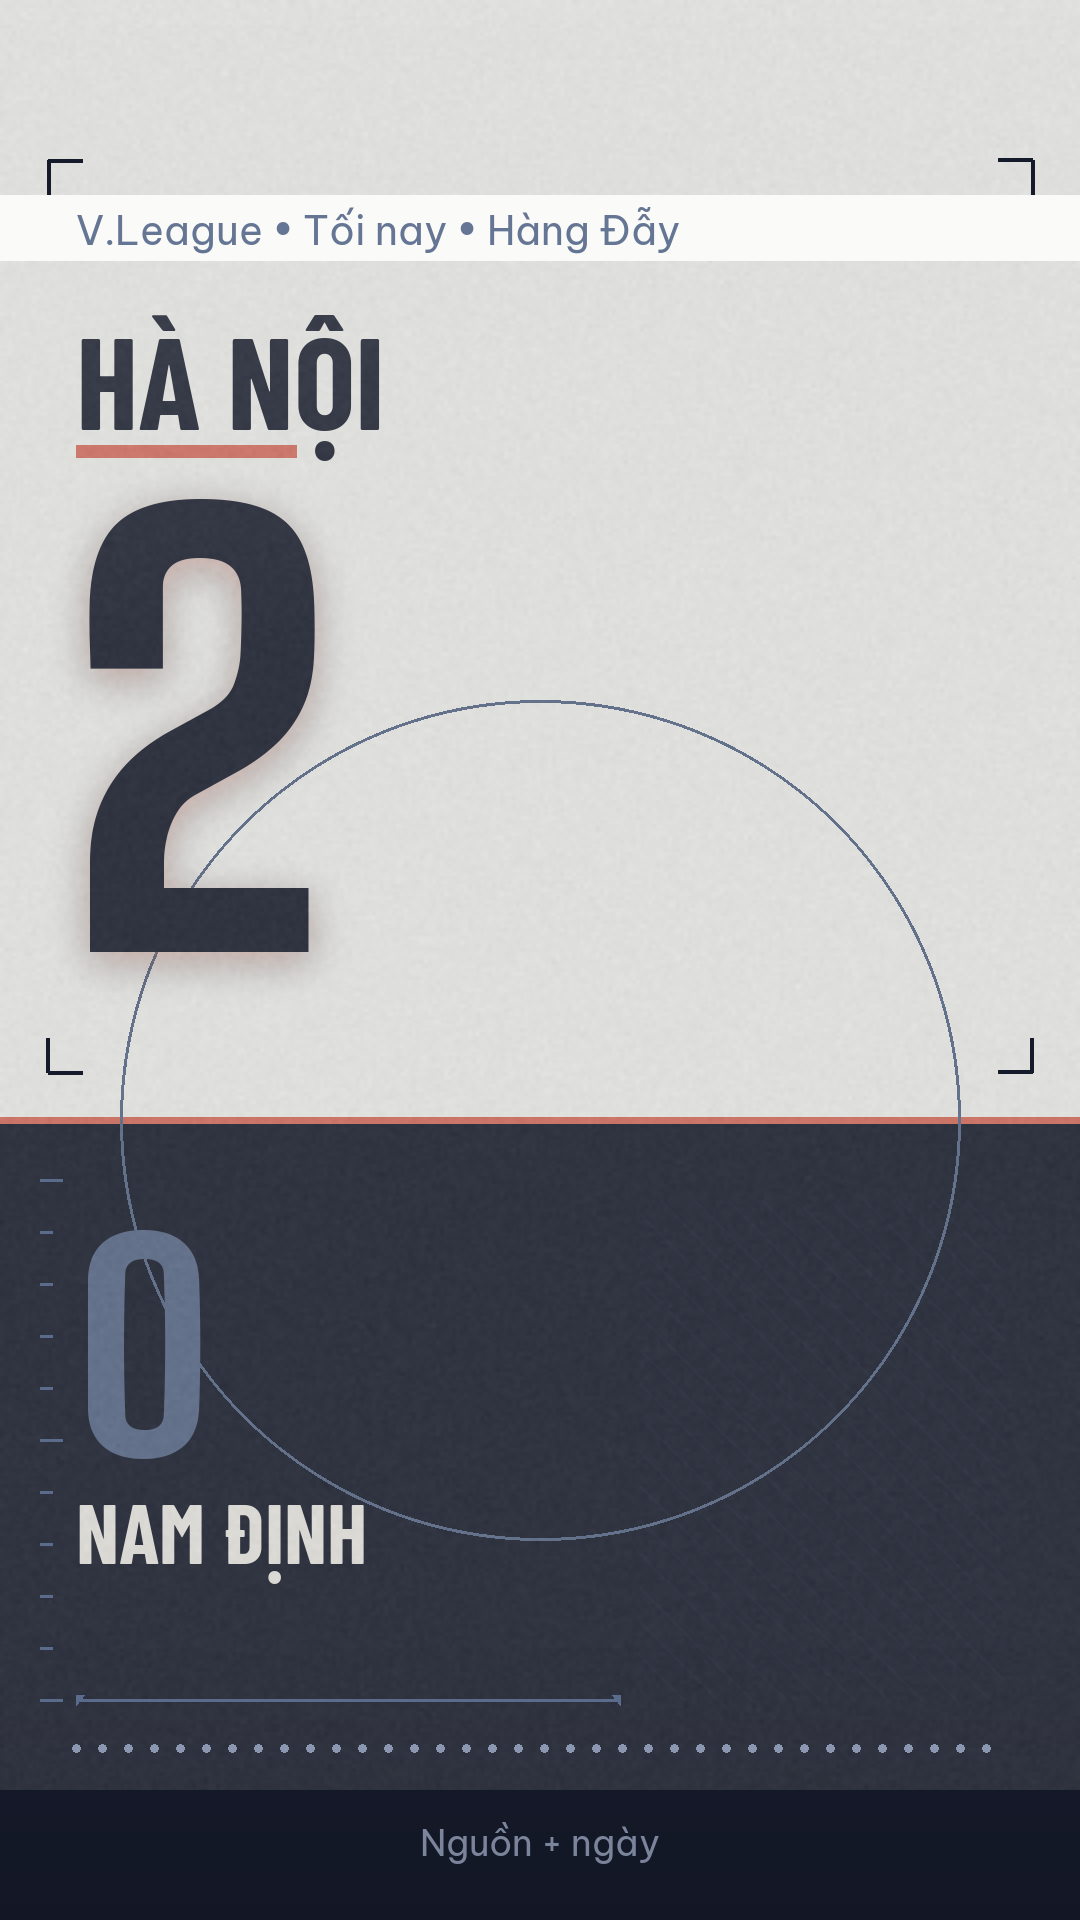
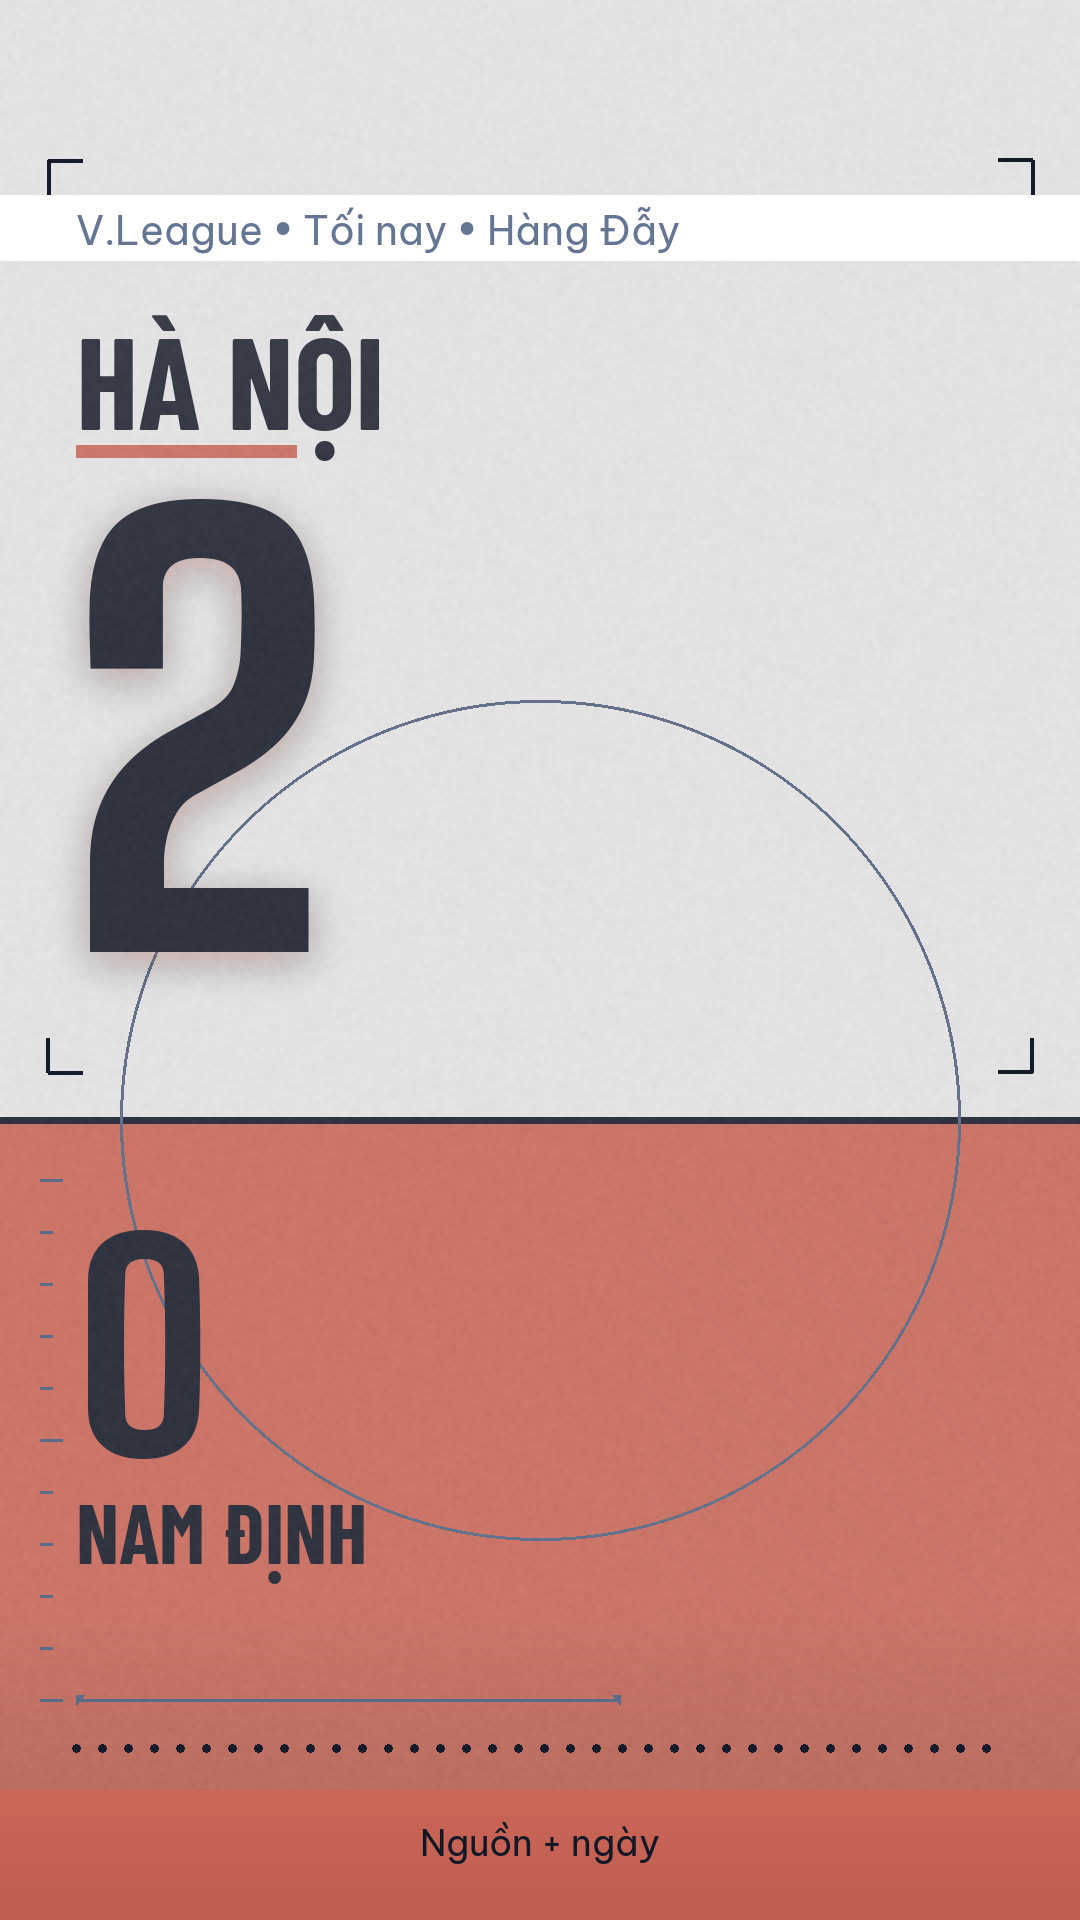
feat(design): san-trang loser block coral per owner call
- Contrast block switches ink to coral; loser numeral/name/credit/rule/details move to ink (ink/coral >=4.5 locked by test)
- Prototype lock doc updated to white/coral spec
- Full suite 287 passed

diff --git a/tests/test_design_skills.py b/tests/test_design_skills.py
@@ -148,12 +148,16 @@ def test_white_colorways_render_and_pass_contrast():
     green = render_redesign("HÀ NỘI", "NAM ĐỊNH", "2 - 0", "V.League", "Tối nay",
                             palette=COLORWAYS["co-sang"])
     assert white.size == green.size == (1080, 1920)
-    assert white.getpixel((540, 100)) == (250, 250, 247)
-    assert white.getpixel((540, 1500)) == (22, 27, 44)
+    assert white.getpixel((540, 100)) == (255, 255, 255)
+    assert white.getpixel((540, 1500)) == (224, 112, 95)
     assert green.getpixel((540, 100)) == (31, 122, 77)
     assert green.getpixel((540, 1900)) == (22, 27, 44)
     ink, paper = hex_rgb("#161B2C"), hex_rgb("#F4F2EC")
+    pure_white = hex_rgb("#FFFFFF")
     slate, field_green = hex_rgb("#5A6B8C"), hex_rgb("#1F7A4D")
+    coral = hex_rgb("#E0705F")
     assert contrast(ink, paper) >= 7.0
-    assert contrast(slate, paper) >= 4.5
+    assert contrast(ink, pure_white) >= 7.0
+    assert contrast(slate, pure_white) >= 4.5
+    assert contrast(ink, coral) >= 4.5
     assert contrast(paper, field_green) >= 3.0

diff --git a/apps/studio_templates/redesign_mr02_skill.py b/apps/studio_templates/redesign_mr02_skill.py
@@ -64,13 +64,13 @@ DEFAULT_PALETTE = {
 # theme-factory method: curated colorways as named palettes. White primary
 # per owner brief; supporting colors chosen for broadcast contrast.
 SAN_TRANG = {
-    "base": (250, 250, 247), "winner_field": (250, 250, 247), "loser_field": INK,
+    "base": (255, 255, 255), "winner_field": (255, 255, 255), "loser_field": CORAL,
     "winner_type": INK, "draw_type": INK, "glow": CORAL,
-    "rule": CORAL, "circle": SLATE, "context_win": SLATE, "context_draw": SLATE,
-    "loser_numeral": SLATE, "loser_name": PAPER, "credit": MIST,
+    "rule": INK, "circle": SLATE, "context_win": SLATE, "context_draw": SLATE,
+    "loser_numeral": INK, "loser_name": INK, "credit": INK,
     "winner_bar": CORAL,
     "haze": None,
-    "detail_primary": INK, "detail_faint": MIST,
+    "detail_primary": INK, "detail_faint": INK,
 }
 
 CO_SANG = {

diff --git a/docs/design/mr02-prototype-lock.md b/docs/design/mr02-prototype-lock.md
@@ -1,0 +1,34 @@
+# PROTOTYPE LOCK: MR-02 san-trang (white #FFFFFF / coral split)
+
+**Status:** APPROVED AS PROTOTYPE — rebuild toàn bộ template pack theo card này.
+**Files:** `docs/design/mr02-san-trang-proof.png` (1080×1920, render kèm
+lite depth + detailing) · script `apps/studio_templates/redesign_mr02_skill.py`
+(palette `SAN_TRANG`) · colorway proof trong `mr02-colorways-compare.png`.
+
+## Audit chốt (ngày lock)
+
+| Check | Kết quả |
+|---|---|
+| Contrast body (ink/white) | PASS ≥7 (test khóa) |
+| Contrast secondary (slate/white) | PASS ≥4.5 (test khóa) |
+| Contrast loser zone (paper/slate trên ink) | PASS theo thiết kế gốc |
+| Palette | PASS — chỉ white/ink/coral/slate/mist |
+| Vietnamese diacritics | PASS mắt thường (HÀ NỘI, NAM ĐỊNH, Hàng Đẫy, Nguồn + ngày) |
+| Slot contract | PASS — comp/when/home/away/score/source, không data bịa |
+| No-overlap text | PASS mắt thường |
+| Safe areas | PASS text (margins 76, top ≥195, credit 1820 như bản gốc duyệt); crop-marks decor bleed có chủ đích |
+| Winner encoding | PASS — coral field→white field + ink monumental + coral bar (không cần chữ "thắng") |
+| Grain mask band sau context line | NOTE — vệt sạch sau dòng context là mask bảo vệ microcopy, đọc như highlight, chấp nhận |
+
+## Spec rebuild toàn pack từ prototype này
+
+1. Nền trắng `#FFFFFF` dominant; khối đối lập Coral đặc (không tint nhạt).
+2. Winner = ink monumental + coral bar + coral glow; loser = ink numeral/name
+   trên coral, credit ink (ink/coral ≥4.5 đã khóa bằng test).
+3. Context 1 dòng sentence-case slate; provenance mist y1820.
+4. Circle motif + corner marks + notched trim + perforation + ticks + pinstripes
+   (detailing.py, non-data only) — liều lượng như proof.
+5. Lite depth (top-light + glow + grain nửa, bỏ haze trên nền trắng).
+6. Numerals BigShoulders (latin only); tiếng Việt Barlow/BeVietnam.
+7. Mỗi card rebuild phải pass: contrast pairs, palette audit, slot contract,
+   eyeball owner — như checklist trên.
